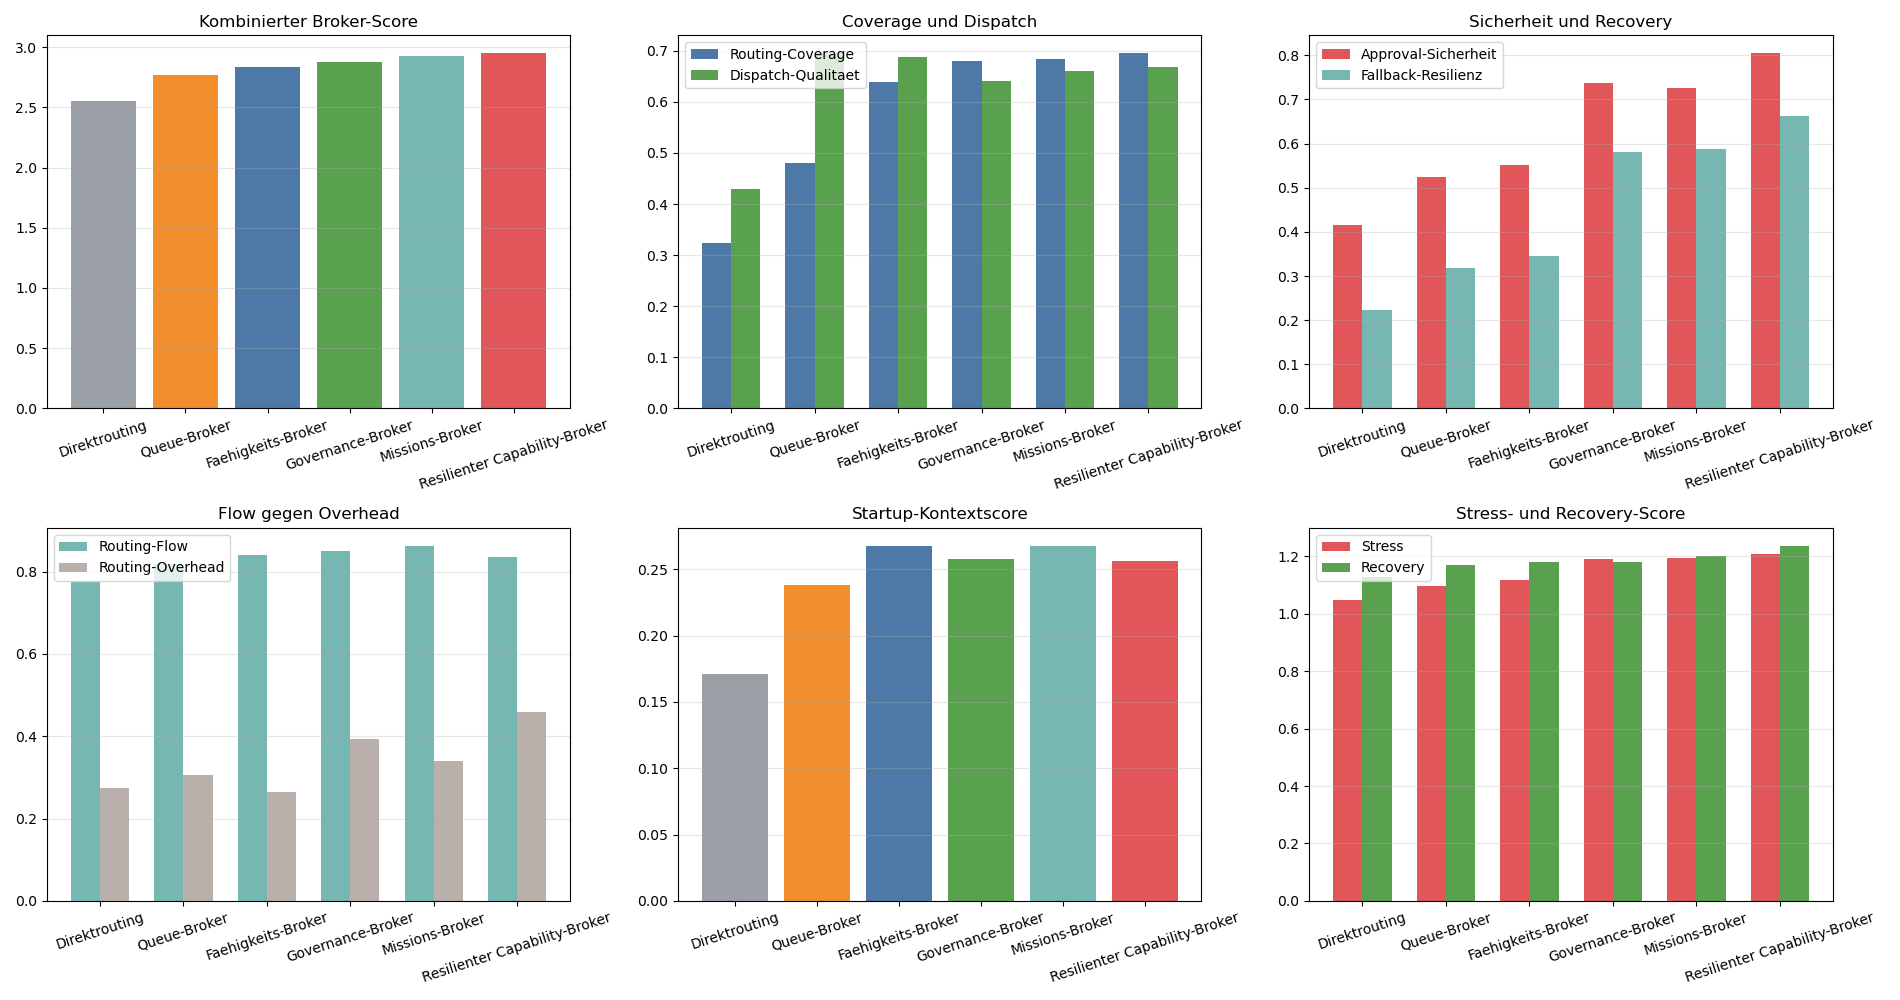
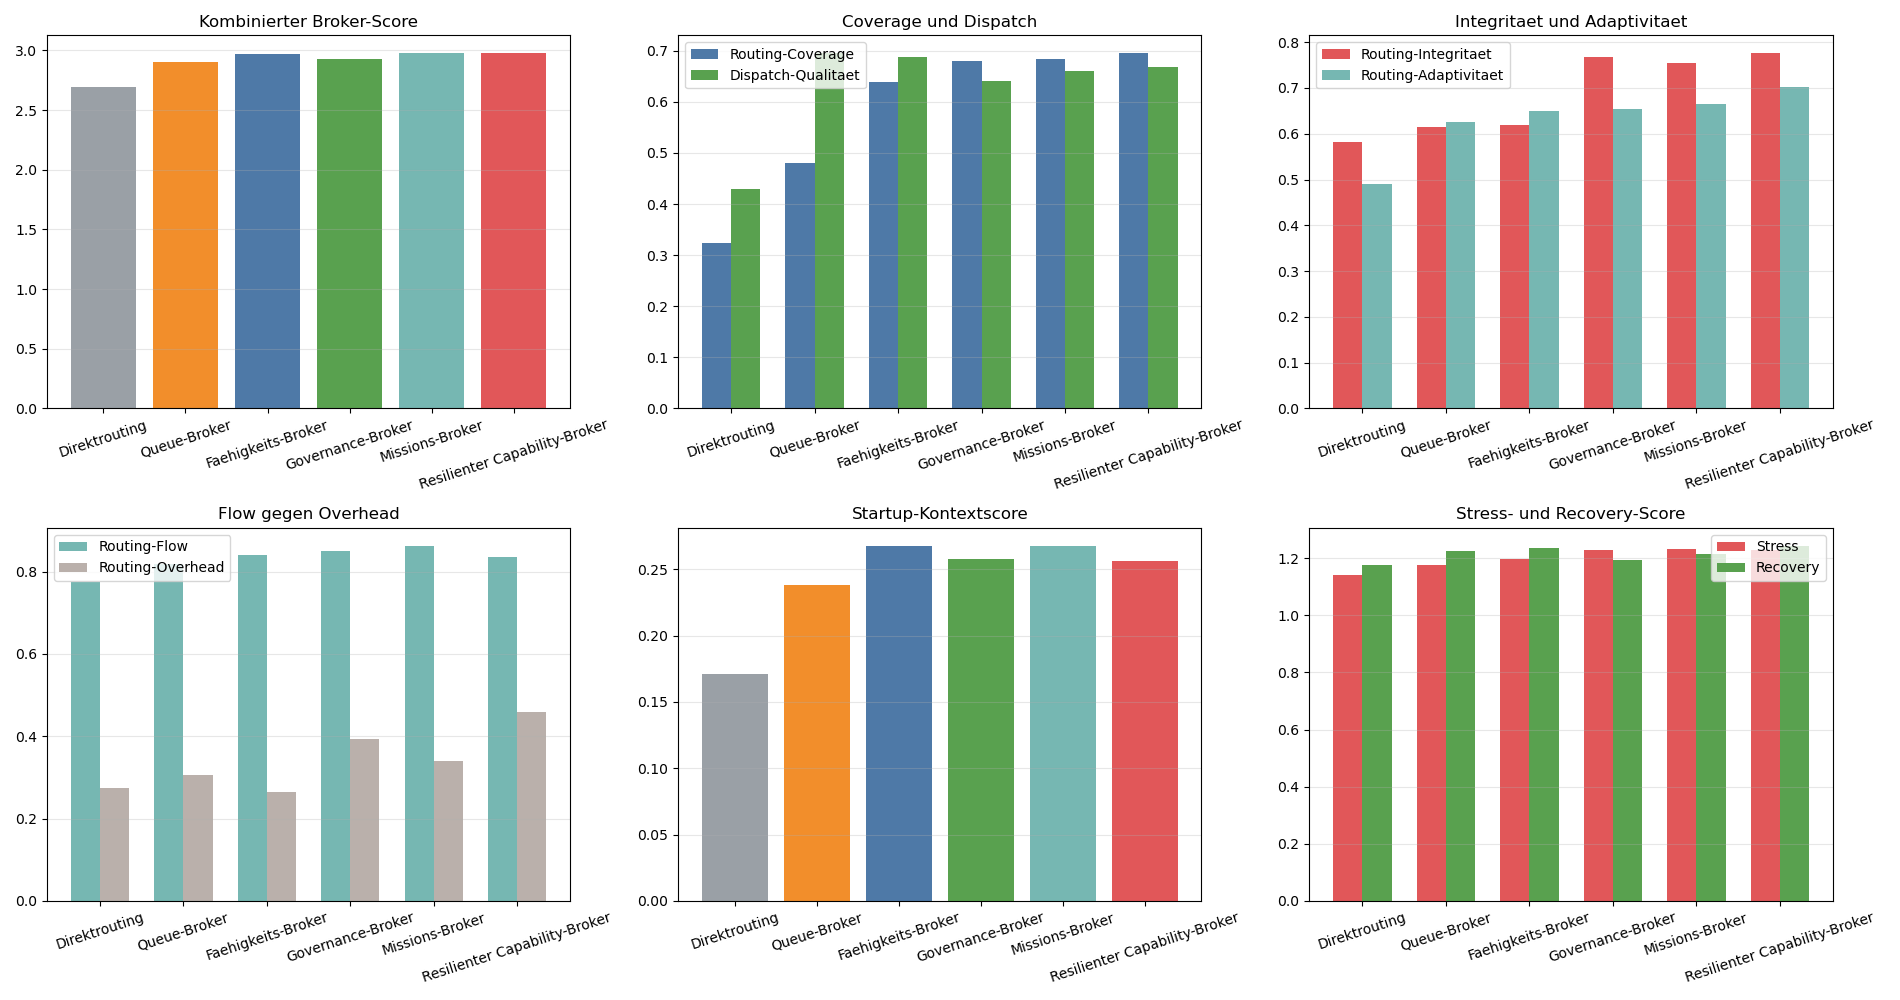
Refine tool routing integrity metrics

diff --git a/schwarm_werkzeugrouting.py b/schwarm_werkzeugrouting.py
@@ -411,6 +411,28 @@ def routing_metrics(config, result, params, profile, kontext):
             ]
         )
     )
+    routing_integrity = clamp01(
+        mittelwert(
+            [
+                approval_safety,
+                1.0 - workflow.get('misinformation_corruption_mean', 0.0),
+                1.0 - workflow.get('cluster_compromise_mean', 0.0),
+                workflow.get('trust_shield_mean', 0.0),
+                route_traceability,
+            ]
+        )
+    )
+    routing_adaptivity = clamp01(
+        mittelwert(
+            [
+                fallback_resilience,
+                routing_flow,
+                workflow.get('resource_efficiency', 0.0),
+                workflow.get('sync_strength_mean', 0.0),
+                dispatch_quality,
+            ]
+        )
+    )
     routing_overhead = clamp01(
         mittelwert(
             [
@@ -444,6 +466,8 @@ def routing_metrics(config, result, params, profile, kontext):
         'approval_safety': approval_safety,
         'fallback_resilience': fallback_resilience,
         'routing_flow': routing_flow,
+        'routing_integrity': routing_integrity,
+        'routing_adaptivity': routing_adaptivity,
         'routing_overhead': routing_overhead,
         'route_traceability': route_traceability,
         'route_exposure': route_exposure,
@@ -511,16 +535,14 @@ def context_score(kontext_name, result, agent_count):
     if kontext_name == 'stress':
         return (
             base
-            + 0.16 * metrics['approval_safety']
-            + 0.12 * metrics['fallback_resilience']
+            + 0.16 * metrics['routing_integrity']
+            + 0.12 * metrics['routing_adaptivity']
             + 0.08 * metrics['route_coverage']
-            - 0.12 * metrics['corruption_mean']
-            - 0.10 * metrics['route_exposure']
             - 0.08 * metrics['routing_overhead']
         )
     return (
         base
-        + 0.18 * metrics['fallback_resilience']
+        + 0.18 * metrics['routing_adaptivity']
         + 0.12 * metrics['routing_flow']
         + 0.08 * metrics['approval_safety']
         - 0.12 * failed_share
@@ -536,6 +558,8 @@ def summarize_runs(runs, profile, context_list, agent_count):
         'approval_safety': {},
         'fallback_resilience': {},
         'routing_flow': {},
+        'routing_integrity': {},
+        'routing_adaptivity': {},
         'routing_overhead': {},
         'route_exposure': {},
     }
@@ -591,8 +615,8 @@ def main():
         print(
             f"{summary['label']:<30} Score={summary['combined_score']:+.3f} | "
             f"Coverage={summary['route_coverage']['startup']:.2f} | "
-            f"Approval={summary['approval_safety']['stress']:.2f} | "
-            f"Flow={summary['routing_flow']['operations']:.2f}"
+            f"Integritaet={summary['routing_integrity']['stress']:.2f} | "
+            f"Adaptivitaet={summary['routing_adaptivity']['recovery']:.2f}"
         )
 
     best = max(summaries, key=lambda item: item['combined_score'])
@@ -605,8 +629,8 @@ def main():
     )
     print(
         f"Coverage {best['route_coverage']['startup']:.2f}, "
-        f"Approval {best['approval_safety']['stress']:.2f}, "
-        f"Recovery {best['fallback_resilience']['recovery']:.2f}"
+        f"Integritaet {best['routing_integrity']['stress']:.2f}, "
+        f"Adaptivitaet {best['routing_adaptivity']['recovery']:.2f}"
     )
 
     labels = [item['label'] for item in summaries]
@@ -644,19 +668,19 @@ def main():
 
     axes[0, 2].bar(
         x - width / 2,
-        [item['approval_safety']['stress'] for item in summaries],
+        [item['routing_integrity']['stress'] for item in summaries],
         width,
-        label='Approval-Sicherheit',
+        label='Routing-Integritaet',
         color='#e15759',
     )
     axes[0, 2].bar(
         x + width / 2,
-        [item['fallback_resilience']['recovery'] for item in summaries],
+        [item['routing_adaptivity']['recovery'] for item in summaries],
         width,
-        label='Fallback-Resilienz',
+        label='Routing-Adaptivitaet',
         color='#76b7b2',
     )
-    axes[0, 2].set_title('Sicherheit und Recovery')
+    axes[0, 2].set_title('Integritaet und Adaptivitaet')
     axes[0, 2].set_xticks(x)
     axes[0, 2].set_xticklabels(labels, rotation=18)
     axes[0, 2].legend()
